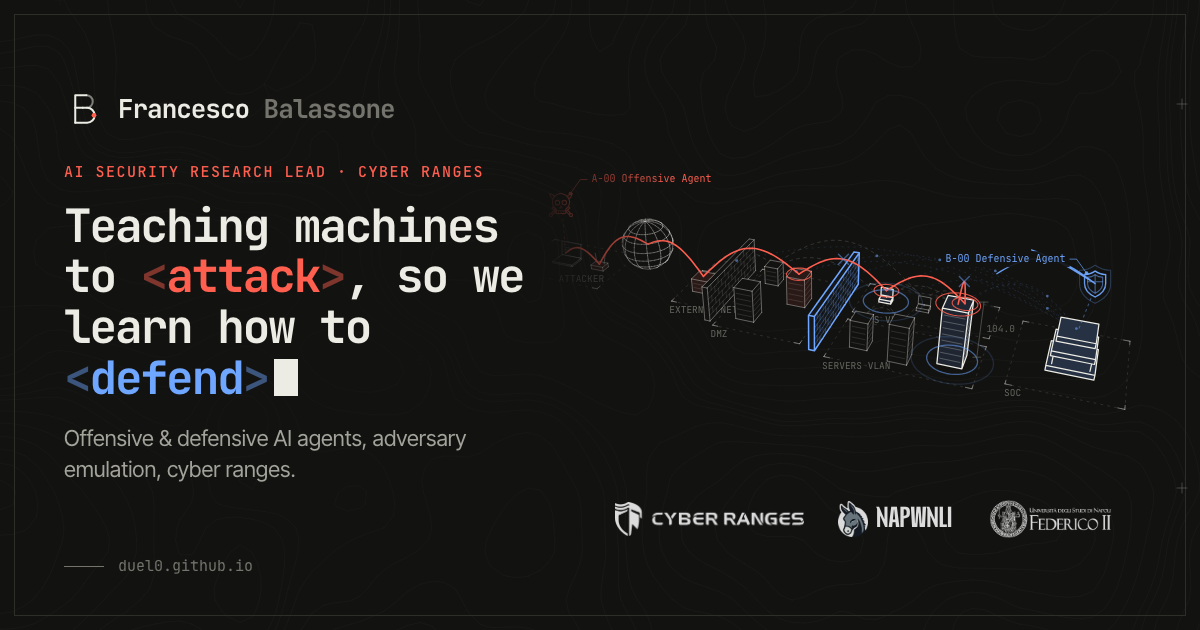
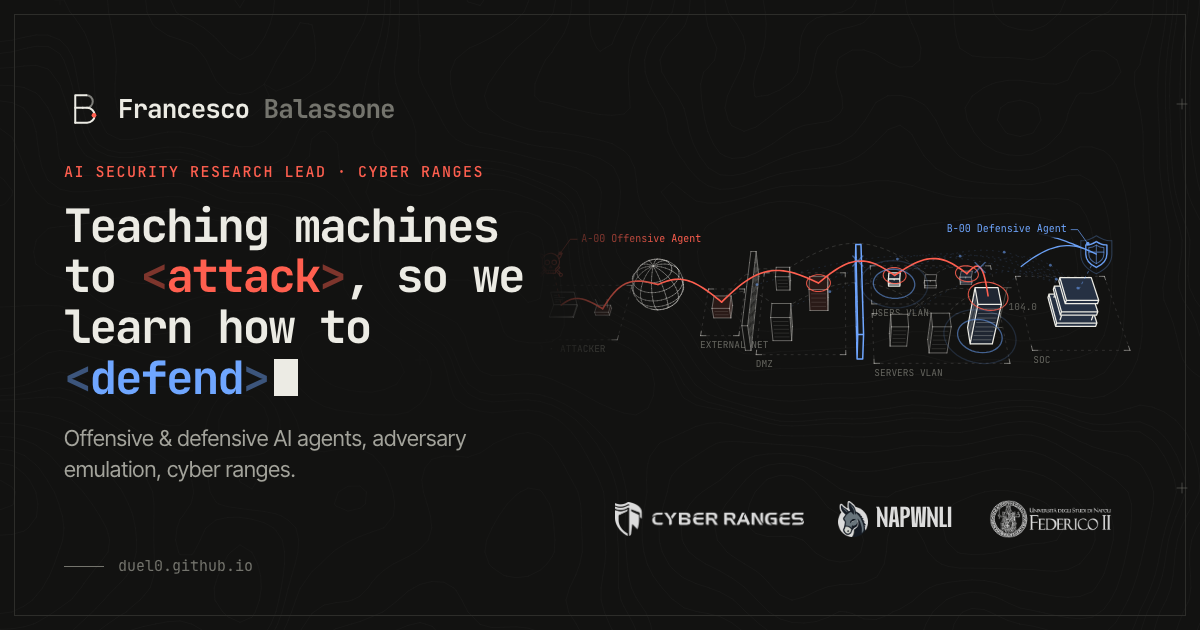
Hero scene: head-on camera on desktop so attacker and SOC sit at the same depth

diff --git a/assets/graphics.js b/assets/graphics.js
@@ -256,8 +256,8 @@
     const resize = () => {
       ({ ctx, w: W, h: H } = setupCanvas(canvas));
       const narrow = W < 700;
-      baseYaw = narrow ? -0.62 : -0.36;
-      basePitch = narrow ? 0.95 : 0.56;
+      baseYaw = narrow ? -0.62 : 0;
+      basePitch = narrow ? 0.95 : 0.82;
       // Fit the whole topology into the canvas at the base view.
       let minX = Infinity, maxX = -Infinity, minY = Infinity, maxY = -Infinity;
       const pts = [];
